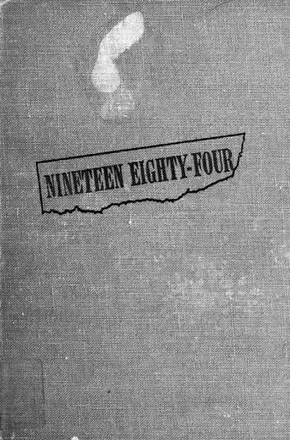
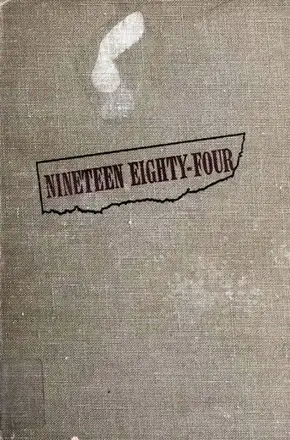
Film and book covers back to normal colour pictures

diff --git a/assets/scripts/main.js b/assets/scripts/main.js
@@ -177,39 +177,20 @@ function cultureList(container, items, kind) {
         list.append(li);
         return { item, row };
     });
-    // files are named after the id of the entry: a clip for a game, a black and white picture drawn in pixels for the rest
+    // files are named after the id of the entry: a clip for a game, a picture for the rest
     const clips = kind === 'games';
     const figure = el('figure', 'culture-preview');
     figure.setAttribute('aria-hidden', 'true');
+    const img = el('img');
+    img.alt = '';
+    img.hidden = clips;
     const clip = el('video');
     Object.assign(clip, { muted: true, loop: true, playsInline: true, preload: 'auto' });
     clip.hidden = !clips;
-    const pixels = el('div', 'culture-pixels');
-    pixels.hidden = clips;
-    figure.append(clip, pixels);
+    figure.append(clip, img);
     container.replaceChildren(list, figure);
     const cover = pixelCover(figure, color, 16);
-    const black = getComputedStyle(document.documentElement).getPropertyValue('--black').trim();
-    const layers = new Map();
     let current = null, leaving = 0;
-
-    const pictureOf = async ({ item, row }) => {
-        const src = `assets/images/culture/${item.id}.webp`;
-        if (!layers.has(item.id)) {
-            const probe = new Image();
-            probe.src = src;
-            if (!await probe.decode().then(() => true, () => false)) return false;
-            const height = Math.min(340, Math.max(180, innerHeight * 0.32));
-            const host = el('div', 'culture-picture');
-            host.style.cssText = `width:${Math.round(height * probe.naturalWidth / probe.naturalHeight)}px;height:${Math.round(height)}px;--invert:1`;
-            pixels.append(host);
-            pixelPicture(host, src, { color: black, active: () => current === row });
-            layers.set(item.id, host);
-            await new Promise(done => setTimeout(done, 80));
-        }
-        layers.forEach((host, id) => { host.hidden = id !== item.id; });
-        return true;
-    };
 
     const show = async entry => {
         const { item, row } = entry;
@@ -221,8 +202,9 @@ function cultureList(container, items, kind) {
             clip.src = `assets/videos/culture/${item.id}.mp4`;
             if (!await new Promise(done => { clip.onloadeddata = () => done(true); clip.onerror = () => done(false); })) return;
             clip.play().catch(() => {});
-        } else if (!await pictureOf(entry)) {
-            return;
+        } else {
+            img.src = `assets/images/culture/${item.id}.webp`;
+            if (!await img.decode().then(() => true, () => false)) return;
         }
         if (current !== row) return;
         const box = container.getBoundingClientRect(), slot = row.querySelector('.index-slot').getBoundingClientRect(), r = row.getBoundingClientRect();

diff --git a/assets/styles/home.css b/assets/styles/home.css
@@ -2206,13 +2206,3 @@ html:has(.project-main)::-webkit-scrollbar {
     object-fit: cover;
 }
 
-.culture-pixels,
-.culture-picture {
-    display: block;
-}
-
-.culture-picture canvas {
-    display: block;
-    width: 100%;
-    height: 100%;
-}

diff --git a/tools/fetch-covers.py b/tools/fetch-covers.py
@@ -266,7 +266,7 @@ def is_placeholder(raw):
 def save(raw, dest, url=''):
     # the Wii only has its full wrap in high resolution: keep the front, the right 47.5%
     crop = ['-gravity', 'East', '-crop', '47.5%x100%+0+0', '+repage'] if '/wii/coverfull/' in url else []
-    subprocess.run(['magick', '-', *crop, '-resize', 'x440>', '-colorspace', 'Gray', '-strip', '-quality', '60', str(dest)], input=raw, check=True, stderr=subprocess.DEVNULL)
+    subprocess.run(['magick', '-', *crop, '-resize', 'x440>', '-strip', '-quality', '66', str(dest)], input=raw, check=True, stderr=subprocess.DEVNULL)
 
 
 def main():
